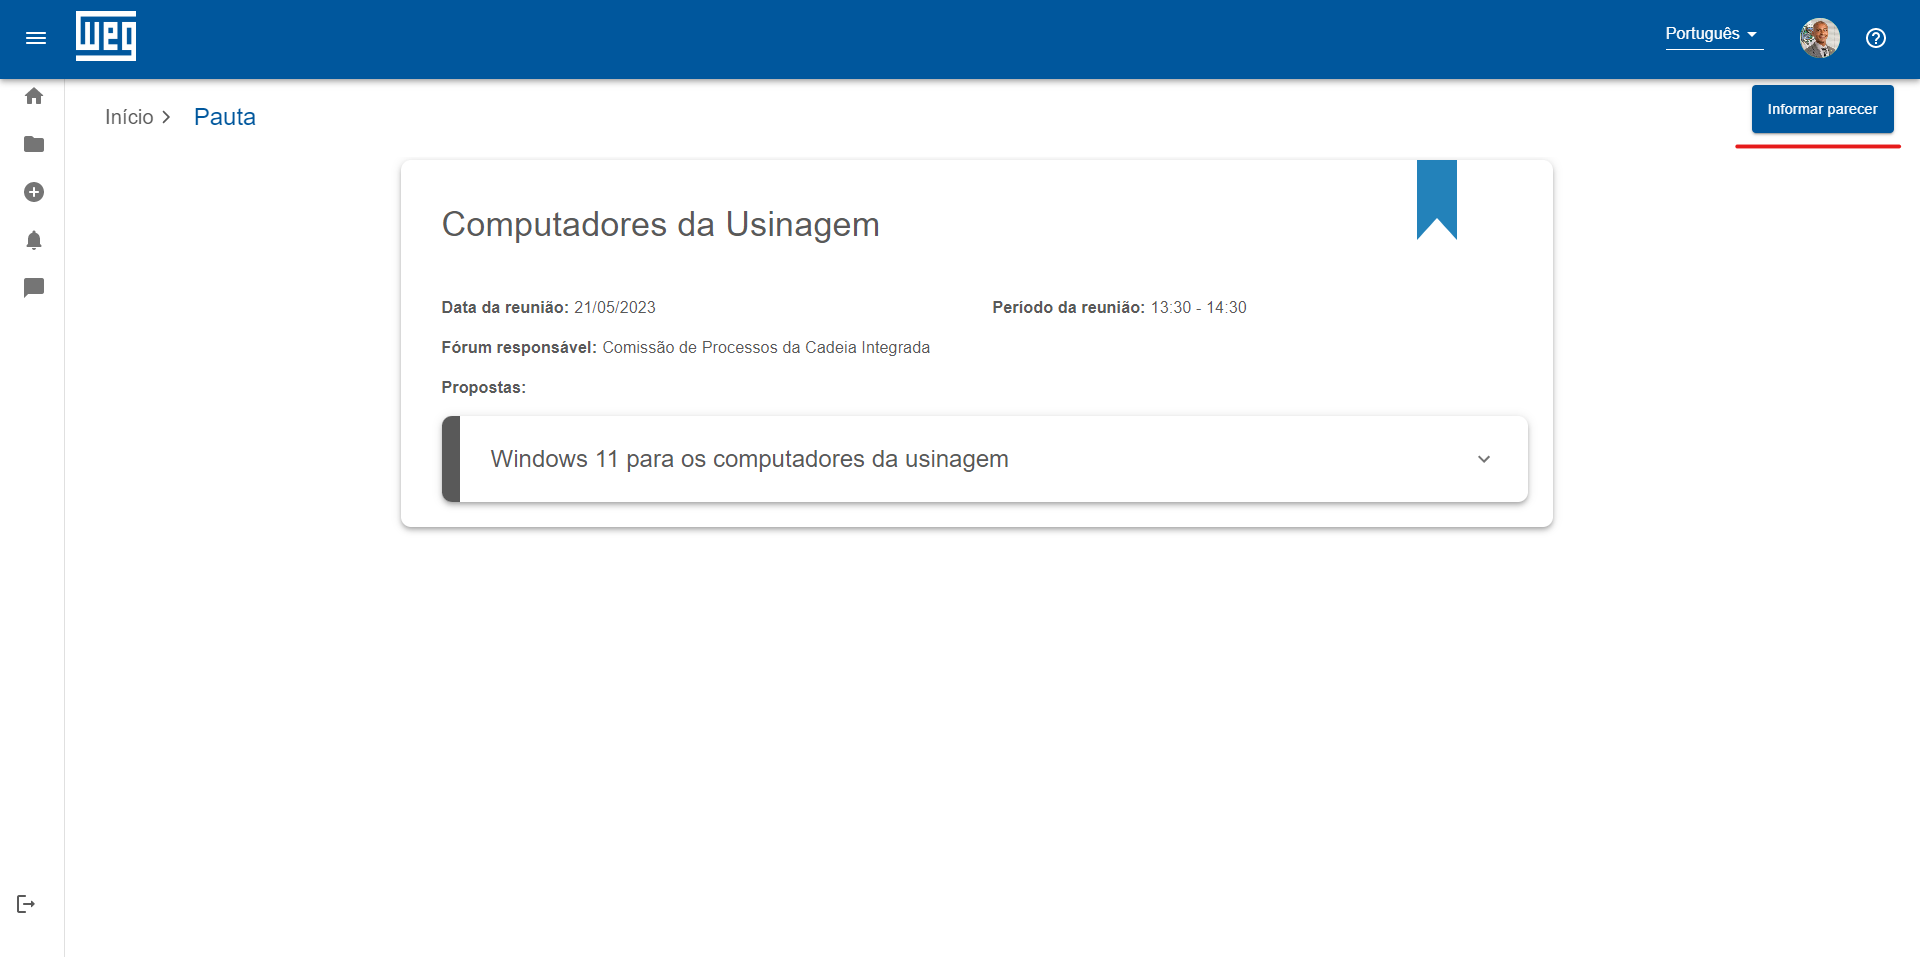
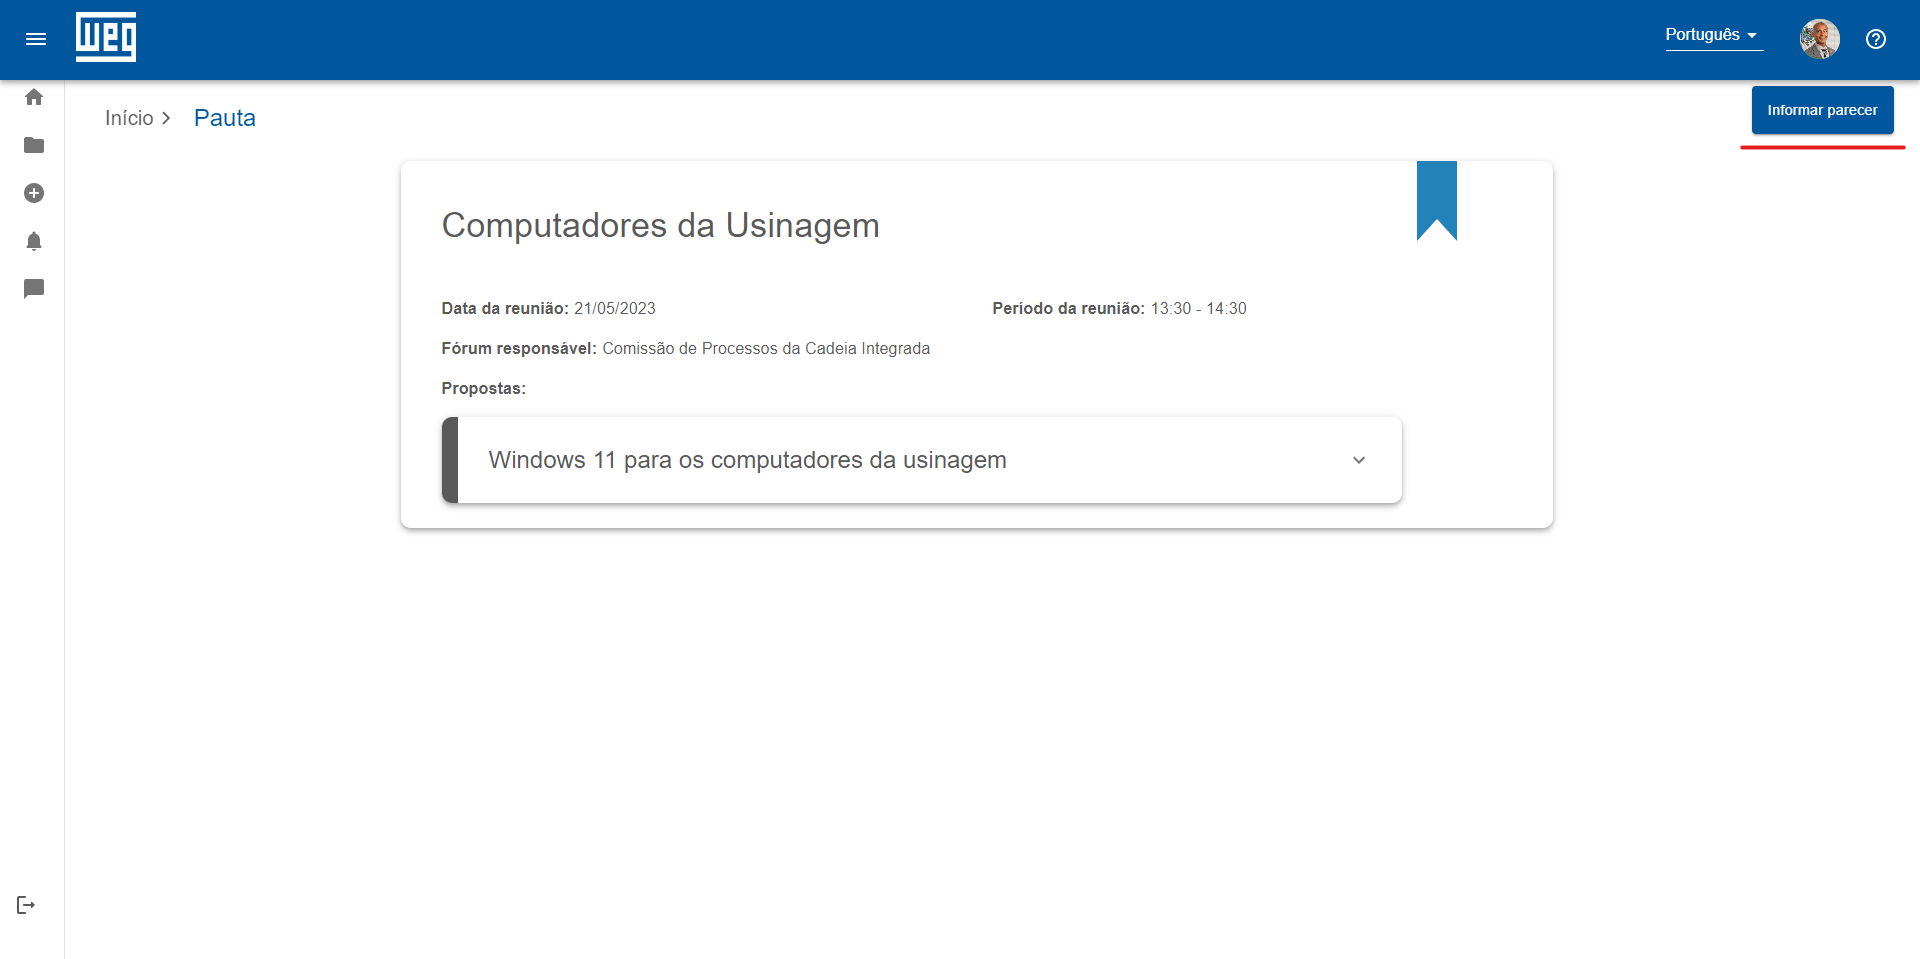
feat: fazendo o criar ata - ajudao ao usuário

diff --git a/src/Pages/CriacaoAta/CriacaoAta.tsx b/src/Pages/CriacaoAta/CriacaoAta.tsx
@@ -63,7 +63,8 @@ export default function CriacaoAta(props: {
   useEffect(() => {
     const pautaEscolhida = JSON.parse(localStorage.getItem("PAUTACRIARATA") as string)
 
-    api.get(`/sod/pauta/criarATA`).then((response) => {
+    ///criarATA
+    api.get(`/sod/pauta`).then((response) => {
       let listaPautas: any[] = []
       for (let pauta of response.data) {
         pauta.propostas = pauta.propostasPauta
@@ -71,9 +72,11 @@ export default function CriacaoAta(props: {
         pauta.tituloReuniao = pauta.tituloReuniaoPauta
         pauta.tipo = TipoColecaoComponenteProcesso.Pauta
 
-        if (pauta.idPauta == pautaEscolhida.idPauta) {
-          setPautaEscolhida(pauta)
-          setValor(1)
+        if (pautaEscolhida != null && pautaEscolhida != undefined) {
+          if (pauta.idPauta == pautaEscolhida.idPauta) {
+            setPautaEscolhida(pauta)
+            setValor(1)
+          }
         }
 
         listaPautas.push(pauta)
